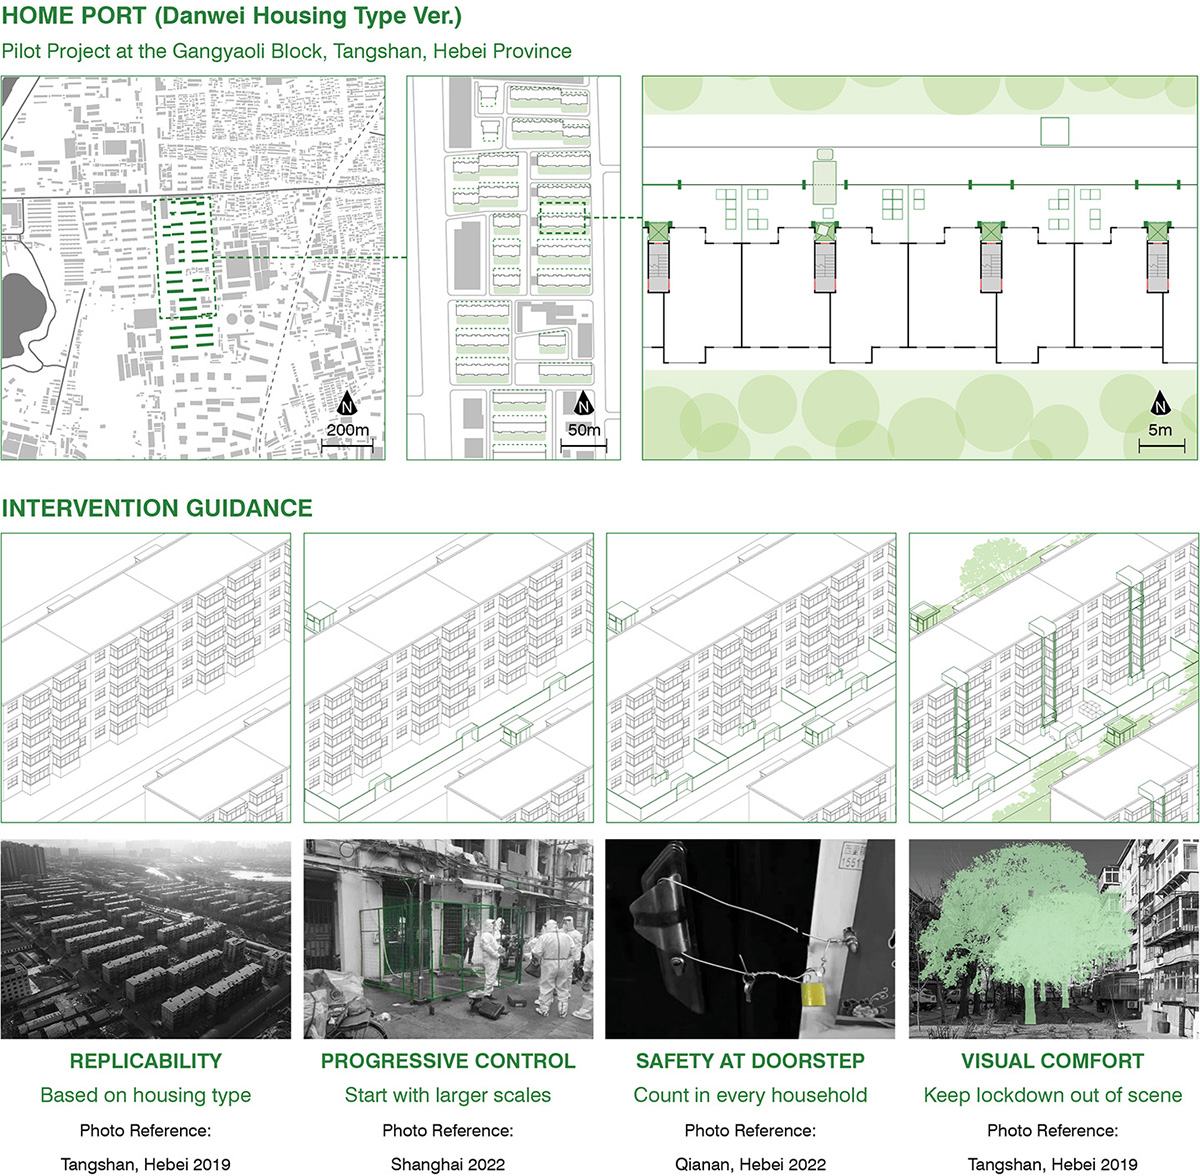
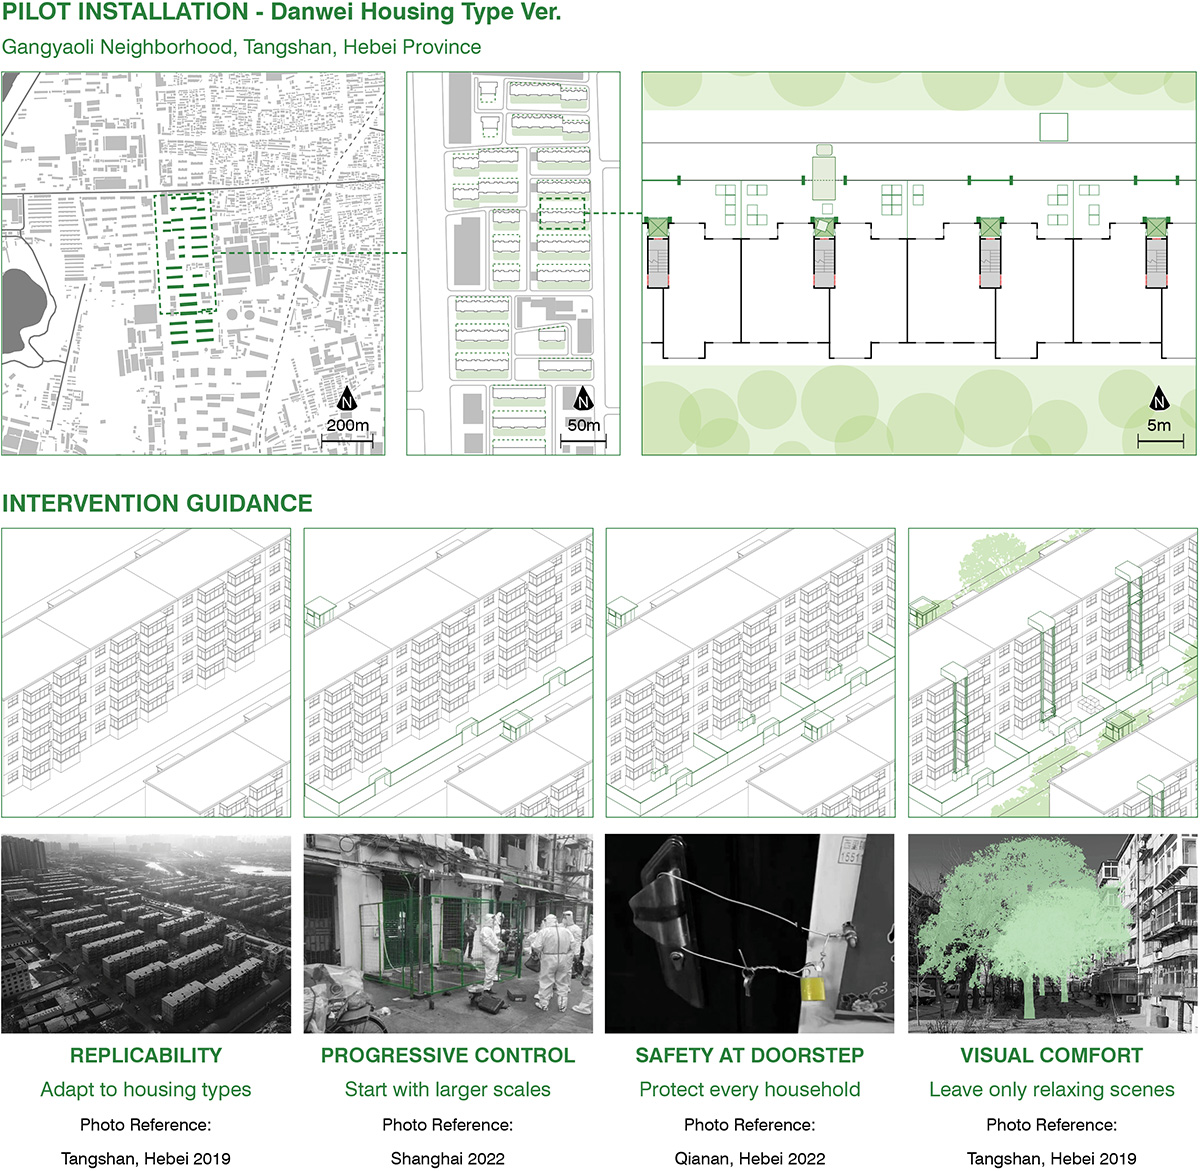
edited project page

Changed region(s): [[0.0, 0.0, 1.0, 1.0]]

diff --git a/port.html b/port.html
@@ -51,14 +51,16 @@
 										by political authorities, similar enforcement actions draw limited discussion in less-known cities across the country under the social consensus of following
 										collective wills in public life. With inactive economies and aging populations producing limited demand for personal mobility, the post-industrial cities of
 										Hebei Province saw recurring lockdown actions, such as barricading high-risk blocks and sealing the doors of individual households. On the other hand,
-										the sporadic online comments from local people focus more on the roughness of interventions that disrupt their residential life, rather than asking for the legal basis of such actions.
+										the sporadic online comments from local people focus more on the 'avoidable roughness' of interventions that disrupt their residential life, rather than asking for the legal basis of such actions.
 										<br><br>
-										To challenge the existing fine lines of socio-political controls and provoke discussions on the spatial construction of personal wills, this project reimagines
-										the 'Danwei' housing type of Tangshan in Hebei Province as a replicable lockdown model toward alternative wellbeing through an architectural installation named HOME PORT.
-										It implements progressive control on personal mobility by fencing residential buildings with security gates and installing lift access to the window openings of individual
-										households. While the system handles packages and COVID self-test mandates to and from each windowsill without interrupting indoor activities, the plantation of green canopies
-										leaves only relaxing views to residents at home. By demonstrating an alternative 2022 with a pilot HOME PORT installation in the to-be-demolished Gangyaoli neighborhood of Tangshan,
-										the project reinterprets confinement as port, control as protection, and red as green to question the social consensus of wellbeing across the media-ignored cities of China in a time of uncertainty.
+										To challenge the existing fine lines of socio-political controls and provoke discussions on the spatial construction of personal wills,
+										this project reimagines the 'Danwei' housing type of Tangshan in Hebei Province as a replicable lockdown model toward alternative wellbeing
+										through an architectural installation named HOME PORT. It implements progressive control on personal mobility by gating residential buildings
+										with layered fences while adding smart lift access to the window openings of individual households. While the system handles packages and
+										COVID self-test mandates at windowsills without interrupting indoor activities, the plantation of green canopies leaves only relaxing views 
+										to residents at home. By demonstrating an alternative 2022 with a pilot HOME PORT installation in the to-be-demolished Gangyaoli neighborhood
+										of Tangshan, the project reinterprets blockage as port, control as protection, and red as green to question the social consensus of wellbeing
+										across the media-ignored cities of China in a time of uncertainty.
 										</p>
 								</header>
 								<br>
